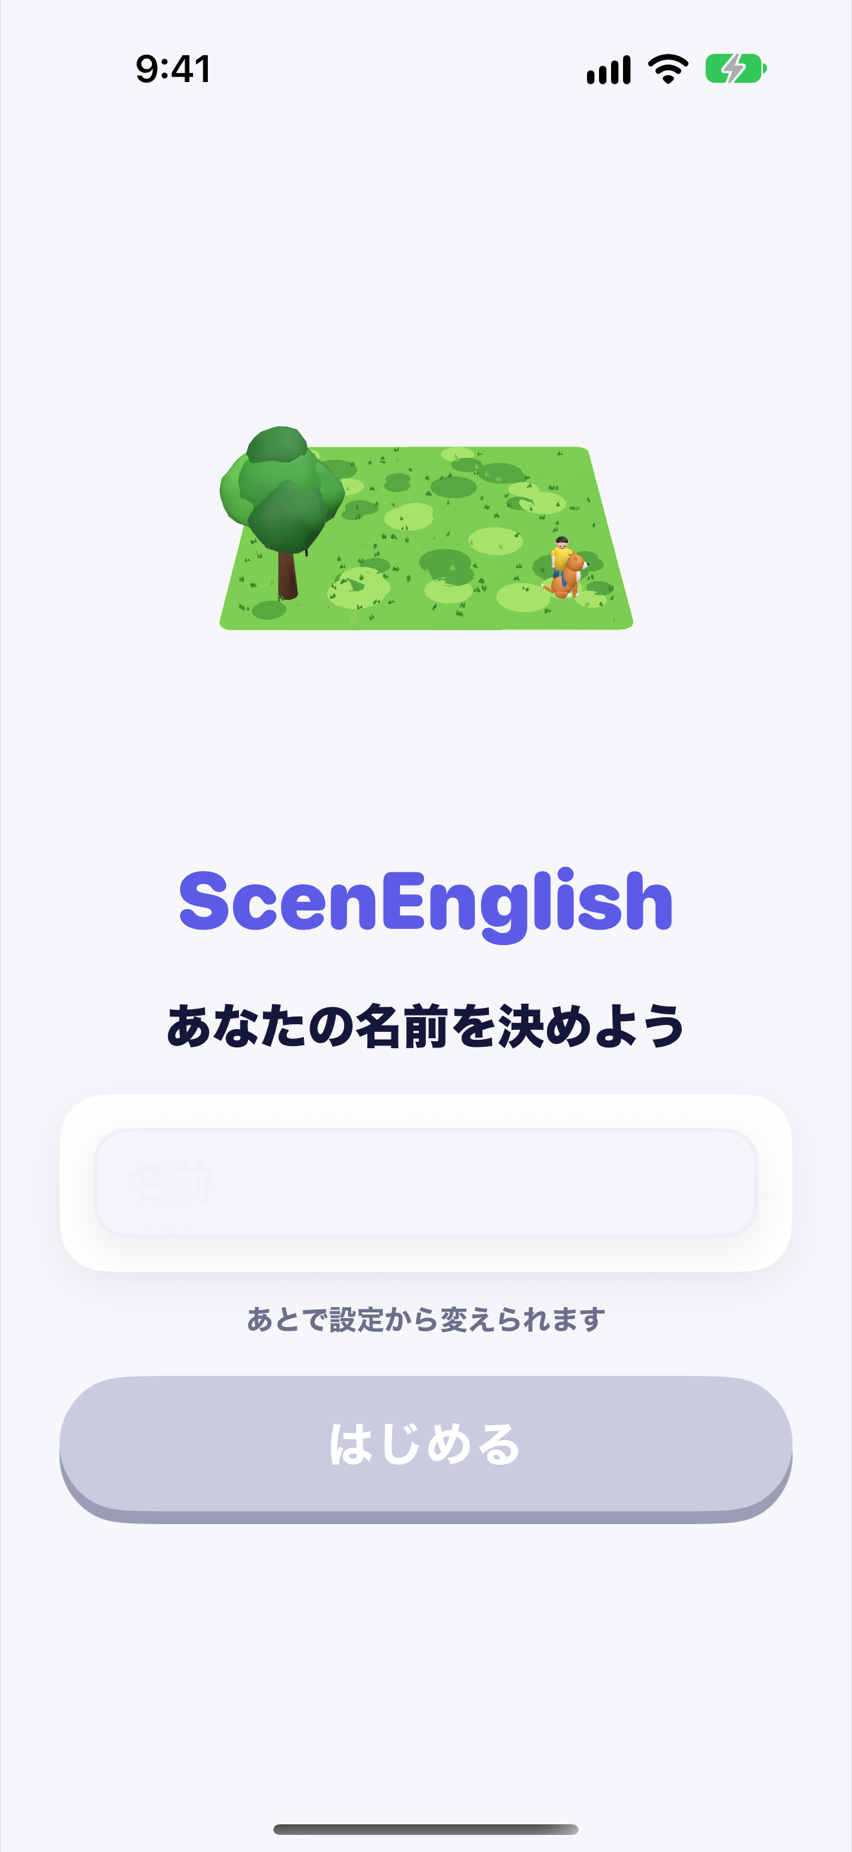
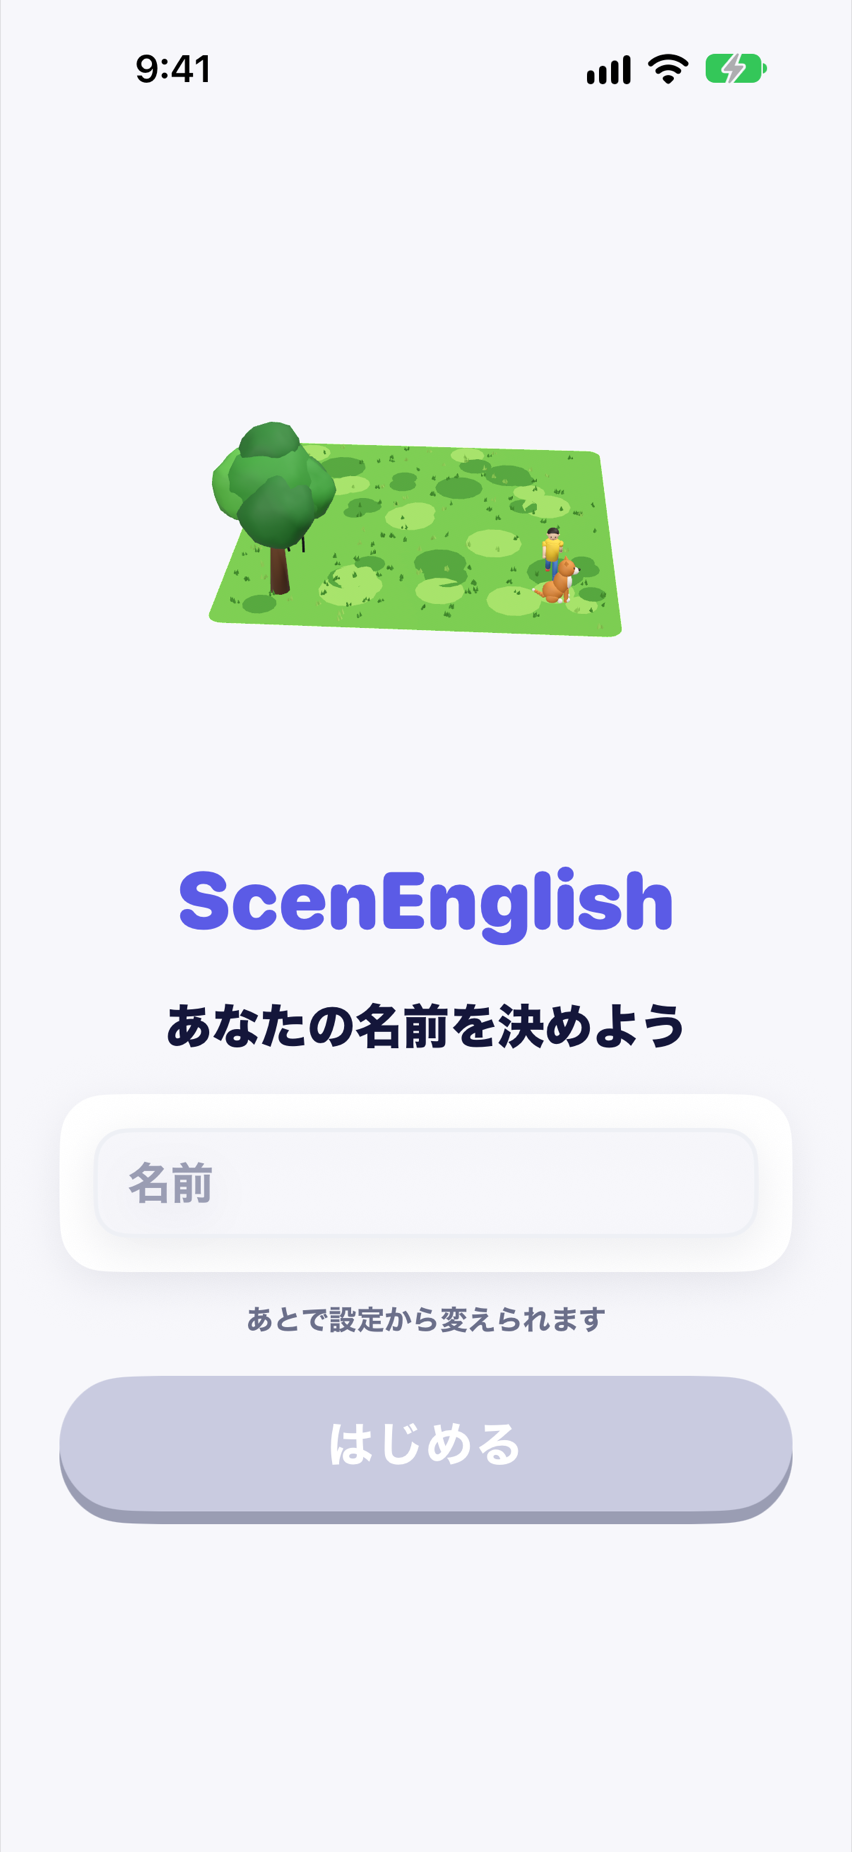
docs: 他のルームで入れなかったときのホームの知らせと、AsobuScreens の動かし方を書く
- join・home・lobby・settings と画面の流れに、確かめの後で入れないとホームに戻って理由を出すこと、
  閉じたシートの結果で移らないこと、通信の失敗の文、確かめの文の改行を書く
- AGENTS.md のコマンドに AsobuScreens の UI test を足す
- 最初の画面の画像（0-first.png）を、名前の欄の空の文字を濃くした画面で撮り直す

Changed region(s): [[0.2441, 0.2154, 0.7629, 0.3693], [0.3052, 0.9849, 0.6714, 1.0], [0.1526, 0.6156, 0.2441, 0.6463]]

diff --git a/docs/design/ui/screens/lobby.md b/docs/design/ui/screens/lobby.md
@@ -38,4 +38,4 @@ exits = [
 - 難易度だけを選ぶ形に変える（2026-10-25 に決定、まだアプリには入れていない）: 作り置きの場面と新しい採点が本番に入ったら、「シーン」のカードを難易度（かんたん・ふつう・むずかしい）の選択に替える。場面は部屋がその部屋でまだ出ていないものからランダムに選び、名前もサムネイルもスタートまで見せない。手作りの 6 場面はそのときに外す。理由: ホストだけが中身を知って有利になるのを防ぐため（[`scene-protocol.md`](../../scene-protocol.md) の「AI で場面を作り置く」）。
 - 場面を AI で作っている間（2026-10-26 に決定、アプリに実装）: ホストが難易度でスタートすると、部屋は場面を AI で作り（room の phase が `generating`）、作り終えると round を配る。その間は全員（ホストも参加者も）待合の画面のままで、難易度のカードがあった所に走る人のアニメーション（`LoadingRunner`）と「AI が場面を生成中…」を出す。文字には光の帯を流し、文言はいつも同じにしてどんな場面かを匂わせない。ホストの「スタート」は押せなくし（2 度押さないため）、難易度も変えられない。参加者の下の「ホストのスタートを待っています」はそのまま。左上の × は押せるままにする。画面全体を覆う表示や暗くする表示は使わない。理由: Apple の HIG に沿い、待つ間もほかのことができ、やめる手段を残すため。場面を作らない・作れなかったときは、この表示を飛ばしてそのまま始まる。
 - 他のルーム（2026-11-12 に決定、アプリに実装）: ホームの「部屋に入る」を無くし、ほかの人の部屋へは待合から移る。ホストの待合だけ、部屋のコードと QR の板の下に線を引いて「他のルーム」（QR の読み取りの印と右向きの矢印）を並べる。押すと「他のルームに入る」のシート（[`join.md`](./join.md)）が開く。場面を作っている間と移っている途中は押せない。参加者の待合には出さない（× で出てから、ホームの「あそぶ」で入り直す）。ホストが抜けて参加者がホストを引き継ぐと、その人の待合に出る。
-- 移るとき（2026-11-12 に決定、アプリに実装）: シートで移る先に入れそうだと分かったら、シートを閉じる。自分の部屋にほかの人がいれば（切断中の人も数える）、「この部屋を抜けて、別のルームに入りますか？」「残った人は、このまま遊べます。」と、「やめる」「入る」で確かめる。誰もいなければ確かめずに移る。移るときは、今の部屋を抜けて（`leave`）から、移る先に入る（`join`）。今の部屋のホストは、残った人の誰かに替わる（バックエンドの今の動き）。誰もいなくなった部屋は、そのまま 2 時間で消える。移っている間は「他のルーム」の矢印の所が回る印になり、入れたら移った先の待合（参加者）に替わる。確かめたあとで入れなくなっていたとき（満員になった・始まった・つながらない）は、今の部屋には戻らずホームに戻る。
+- 移るとき（2026-11-12 に決定、アプリに実装）: シートで移る先に入れそうだと分かったら、シートを閉じる。自分の部屋にほかの人がいれば（切断中の人も数える）、「この部屋を抜けて、別のルームに入りますか？」「残った人は、このまま遊べます。」と、「やめる」「入る」で確かめる。誰もいなければ確かめずに移る。移るときは、今の部屋を抜けて（`leave`）から、移る先に入る（`join`）。今の部屋のホストは、残った人の誰かに替わる（バックエンドの今の動き）。誰もいなくなった部屋は、そのまま 2 時間で消える。移っている間は「他のルーム」の矢印の所が回る印になり、入れたら移った先の待合（参加者）に替わる。確かめたあとで入れなくなっていたとき（満員になった・始まった・つながらない）は、今の部屋には戻らずホームに戻り、理由を一言出す（[`home.md`](./home.md)）。「入る」を 2 度押しても、移るのは 1 度だけにする（2 つの部屋に入って、片方に抜けない参加者を残さないため）。

diff --git a/AGENTS.md b/AGENTS.md
@@ -102,6 +102,7 @@ xcodebuild -project ios/NG2622.xcodeproj -scheme "NG2622 Mock" -destination 'gen
 (cd ios/Packages/BackendAPI && swift test)  # WebSocket のメッセージが openapi.json から作った型で読めるか、BearerToken が合言葉を付けるかを確かめる（Mac で動く。シミュレータは要らない）
 xcodebuild -project ios/NG2622.xcodeproj -scheme "NG2622 Mock" -destination 'platform=iOS Simulator,name=iPhone 18 Pro' -skipPackagePluginValidation test   # アプリの unit test（ios/NG2622Tests。部屋のメッセージの変換など）
 TEST_RUNNER_RECORDS_SHOT_DIR=<dir> xcodebuild -project ios/NG2622.xcodeproj -scheme "NG2622 Mock" -destination 'platform=iOS Simulator,name=iPhone 18 Pro Max' -skipPackagePluginValidation -only-testing:NG2622UITests/RecordsScreens test   # きろく・設定の画面を Mock で通しで開き、<dir> に PNG を書き出す（例の記録の数は MOCK_SAMPLE_RECORDS）
+TEST_RUNNER_ASOBU_SHOT_DIR=<dir> xcodebuild -project ios/NG2622.xcodeproj -scheme "NG2622 Mock" -destination 'platform=iOS Simulator,name=iPhone 18 Pro Max' -skipPackagePluginValidation -only-testing:NG2622UITests/AsobuScreens test   # 最初の画面 → ホーム →「あそぶ」→ 待合 →「他のルーム」→ 別の部屋を Mock で通しで開き、<dir> に PNG を書き出す（回転中の 3D のコマも撮る）
 # App Store に出すときは scheme「NG2622 Store」（Release-Store。Local.xcconfig を読まない）で Archive する。手順は docs/app-store/README.md
 blender --background --factory-startup --python scripts/app-icon/render_park.py && uv run --with pillow python3 scripts/app-icon/build.py  # アプリのアイコンを作り直す
 TEST_RUNNER_LIVE_BACKEND_URL=http://localhost:8787 xcodebuild -project ios/NG2622.xcodeproj -scheme "NG2622 Live" -destination 'platform=iOS Simulator,name=iPhone 18 Pro' -skipPackagePluginValidation test   # 手元のバックエンド（pnpm dev）に LiveGameClient を 2 つつなぐ結合テストも動かす

diff --git a/docs/design/ui/screens/join.md b/docs/design/ui/screens/join.md
@@ -14,6 +14,7 @@ entry_points = [
 exits = [
   { to = "lobby", how = "閉じる", trigger = "入れる部屋のコード / QR（ほかの人がいれば確かめてから、移った先の待合へ）" },
   { to = "lobby", how = "閉じる", trigger = "下に引いて閉じる" },
+  { to = "home", how = "戻る", trigger = "確かめの後で入れなくなった（満員になった・始まった・つながらない）。ホームに理由を一言出す" },
 ]
 +++
 
@@ -32,3 +33,6 @@ exits = [
 - ホームの「部屋に入る」の画面をやめ、待合（ホスト）の「他のルーム」で開くシートにした。題は「他のルームに入る」。上から「QR を読み取る」、「部屋のコード」の 4 つの枠、テンキー。戻るボタンと自分の名前は出さない（下に引いて閉じる）。
 - 4 桁そろうと（QR を読めたときも）、部屋には入らずに、入れそうかだけを確かめる（`GET /rooms/:id`。部屋があるか、満員でないか、待合か）。入れないときはシートの中で枠を揺らし、理由を出す。今の部屋は抜けない。今いる部屋のコードは「いまいる部屋です」。
 - 入れそうなら、シートを閉じてから移る。移るときの確かめと順番は [`lobby.md`](./lobby.md)。
+- 確かめている途中に下に引いて閉じたときは、確かめの結果が後から届いても移らない。次に開いたときは、前のコードを持ち越さない。
+- 通信に失敗したとき（オフラインなど）は「部屋が見つかりません」ではなく「つながりませんでした」と出す。
+- 確かめの後で入れなくなっていたとき（満員になった・始まった・つながらない）は、今の部屋には戻らずホームに戻り、きろくの板の下に「入れませんでした（満員）」のように理由を一言出す。知らせは、ホームから次の画面へ進むと消える。

diff --git a/docs/design/ui/screens/settings.md b/docs/design/ui/screens/settings.md
@@ -27,7 +27,7 @@ exits = [
 
 - 「保存しているきろく」に、回数と録音の本数（例: 12 回・録音 12 本）を出す。「きろくと録音は、この iPhone の中だけに保存しています。」と添える。
 - 「きろくと録音をすべて消す」は、オレンジ（紫の補色。振り返りの「場面と合わない描写」と同じ色）の枠のボタンにする。消すものが無いときは押せない。読める記録が 0 件でも、読めなかったファイル（壊れた記録・知らない版の記録）が残っていれば押せる（確かめの文は「読めなかったきろくのファイルが、この iPhone から消えます」）。
-- 押すと、確かめを出す。「すべて消しますか？」「きろく N 回と録音 M 本が、この iPhone から消えます。元にもどせません。」と、「やめる」「消す」。「消す」はオレンジ。録音が 0 本なら「きろく N 回が…」にする。
+- 押すと、確かめを出す。「すべて消しますか？」「きろく N 回と録音 M 本が、この iPhone から消えます。元にもどせません。」と、「やめる」「消す」。「消す」はオレンジ。録音が 0 本なら「きろく N 回が…」にする。「、」と「消えます。」の後で改行する（「ん。」などだけが次の行に落ちないように）。
 - 消している間は、ボタンを押せなくする。
 - 消すと、記録と録音をまとめて消す（読めなかったファイルも消す）。この画面の回数、ホームの回数、きろくの画面も 0 件になる。
 - 1 件ずつ消す操作は置かない。

diff --git a/docs/design/ui/screens/home.md b/docs/design/ui/screens/home.md
@@ -11,6 +11,7 @@ entry_points = [
   { from = "first", how = "置き換え", trigger = "はじめる" },
   { from = "(起動)", how = "最初の画面", trigger = "名前を保存しているときに、アプリを開く" },
   { from = "lobby", how = "戻る", trigger = "退出（×）" },
+  { from = "join", how = "戻る", trigger = "確かめの後で入れなくなった（「入れませんでした（理由）」を出す）" },
   { from = "ranking", how = "戻る", trigger = "退出する" },
   { from = "records", how = "戻る", trigger = "戻る" },
   { from = "settings", how = "戻る", trigger = "戻る" },
@@ -38,3 +39,4 @@ exits = [
 - 名前と色の欄はホームから無くす。名前は最初の画面（[`first.md`](./first.md)）で決め、名前と色は設定で変える（[`settings.md`](./settings.md)）。
 - 「あそぶ」の下に、きろくへの入口を白い板で置く。「あそぶ」（紫）と見た目を分け、目立たせない。板には「これまでの N 回」と回数を出す。
 - 記録が 0 件のときも板は出し、「あそぶと、ここにたまります」と出す。押すと、きろくの 0 件の画面が開く。
+- 待合の「他のルーム」で、確かめの後で入れなくなってホームに戻ったときは、きろくの板の下に「入れませんでした（満員）」のように理由を一言出す。ボタンの位置は動かさない。知らせは、ホームから次の画面へ進むと消える。

diff --git a/docs/design/screen-flow.md b/docs/design/screen-flow.md
@@ -35,6 +35,7 @@ flowchart TD
   Home[1 ホーム] -->|あそぶ| Lobby[3 待合]
   Lobby -->|ホストが他のルーム| Join[2 他のルームに入る]
   Join -->|コード / QR → 確かめ → 今の部屋を抜けて入る| Lobby
+  Join -->|確かめの後で入れない（理由を一言出す）| Home
   Lobby -->|退出| Home
   Lobby -->|ホストがスタート| Play[4 プレイ]
   Play -->|自分の録音が終わる| Wait[5 待機]
